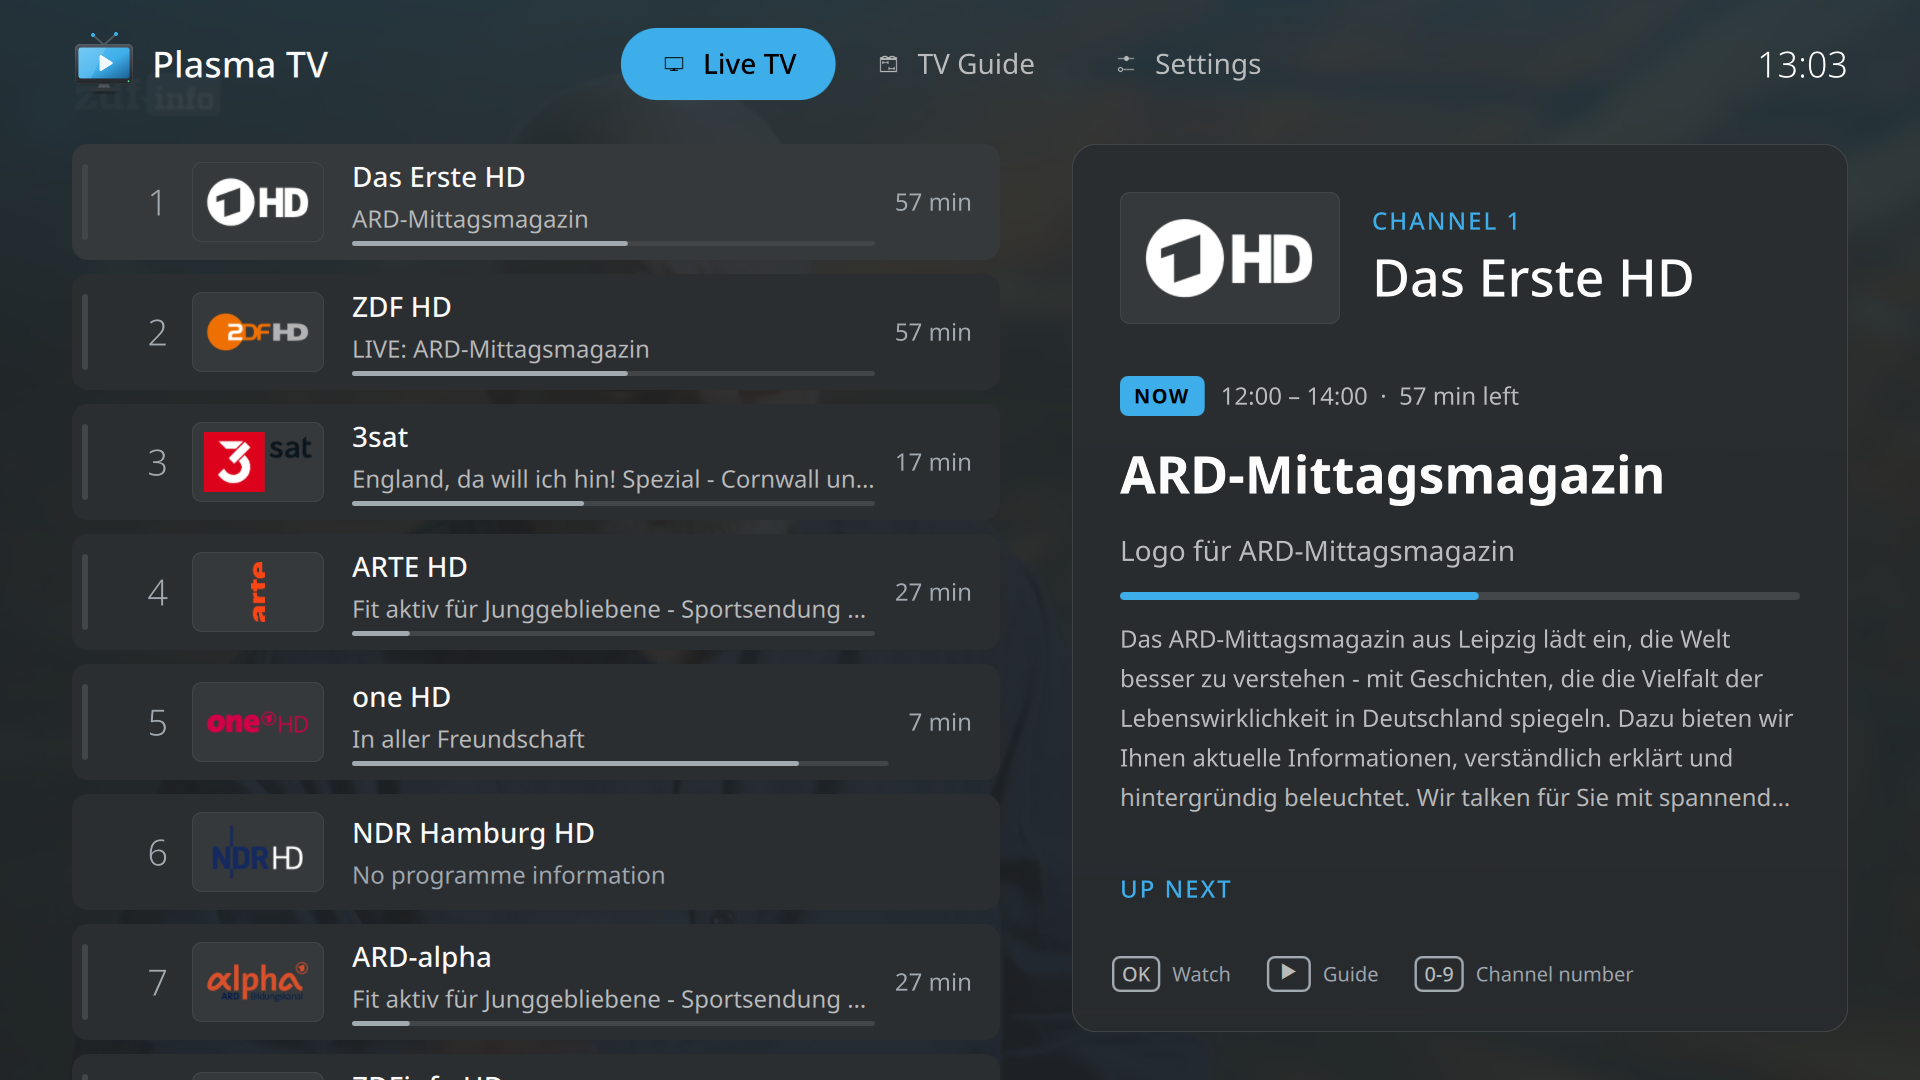
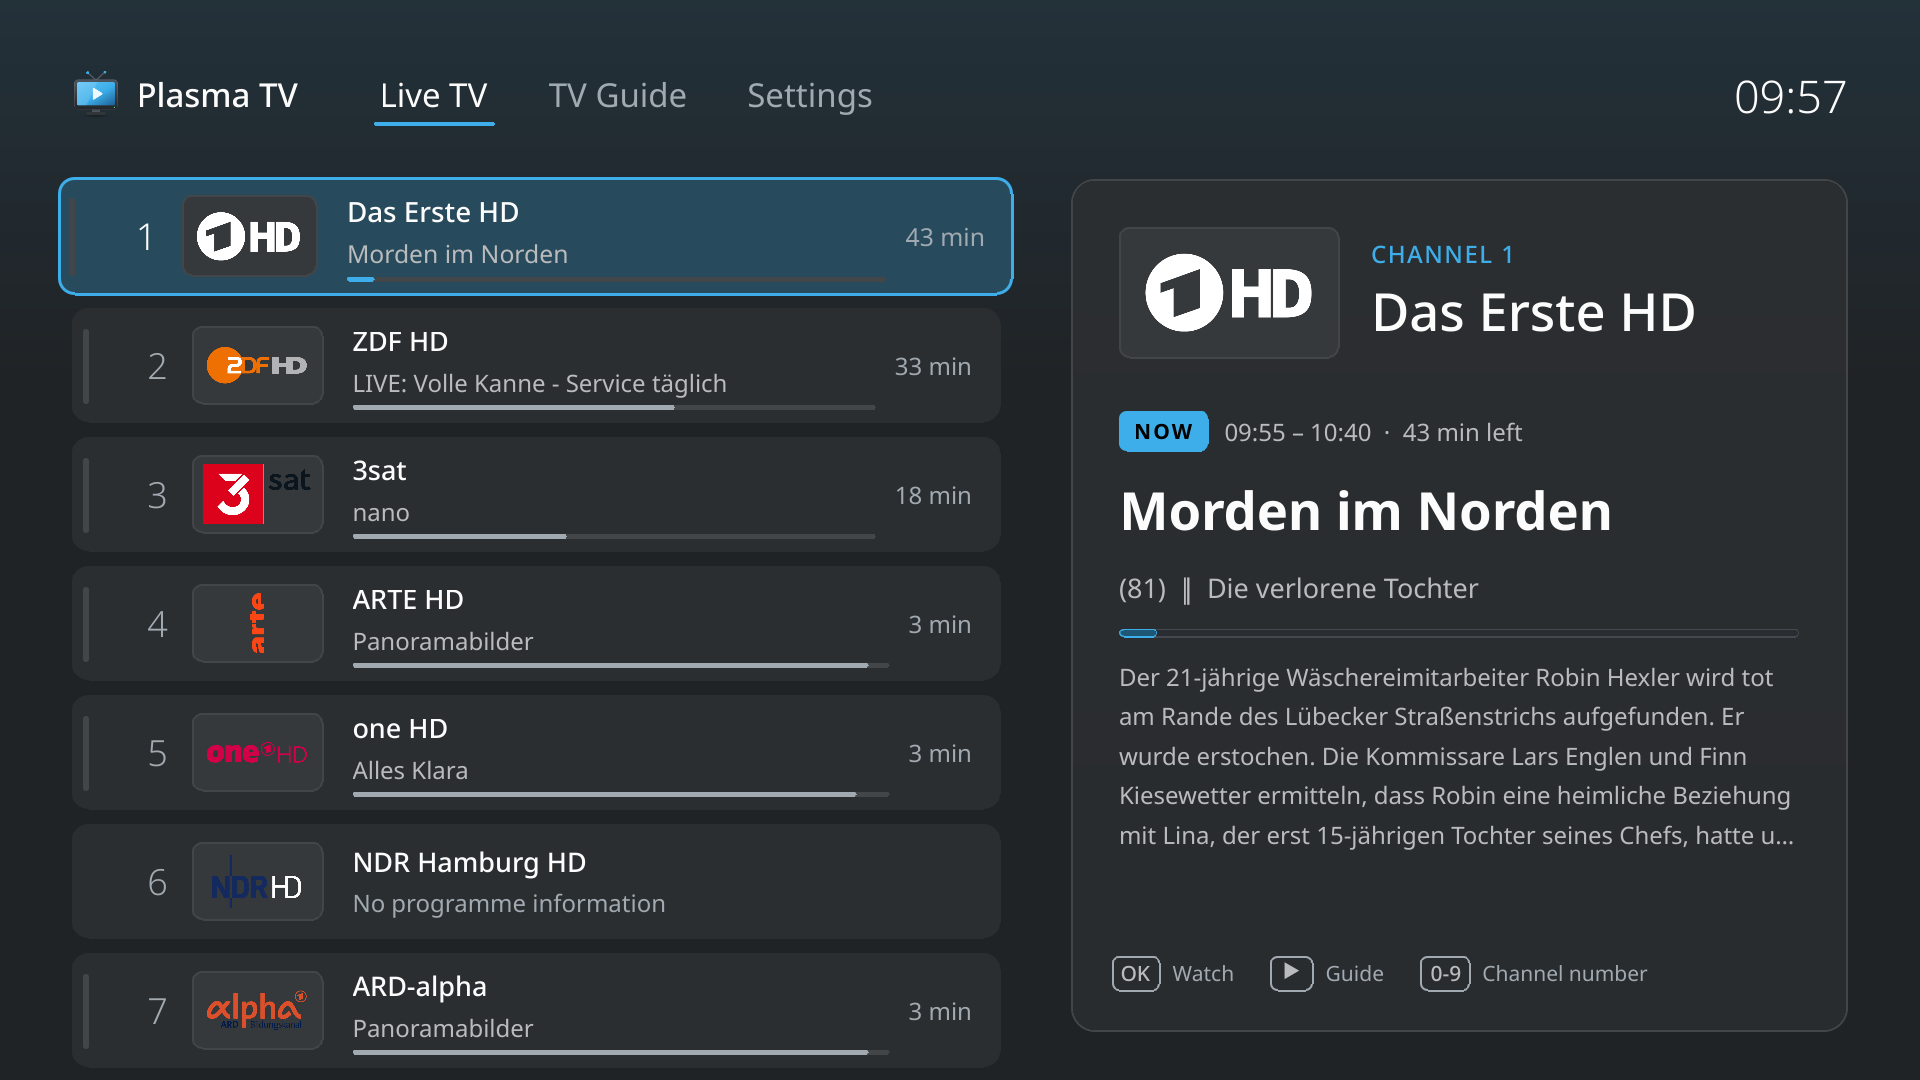
docs: Update the screenshots to the Bigscreen UI
The screenshots still showed the UI from before Bigscreen UI. The
watching screenshot shows a drawn landscape instead of a TV broadcast,
so it shows no people and no broadcaster's content. The captions
describe the current keys and settings.

diff --git a/README.md b/README.md
@@ -22,15 +22,14 @@ that is playing shows through behind the menus.
 ![Live TV page with the channel list and programme details](img/live-tv.png)
 
 **Watching**: the info bar shows the channel, the current programme with its
-progress and what's on next. Up/down zaps, OK opens the channel list.
+progress and what's on next. Up/down zaps, left opens the channel list and OK
+pauses.
 
 ![Watch mode with the info bar over live video](img/watch.png)
 
-**Settings**: server address, credentials (the password is stored in the
-wallet), streaming profile, days of guide data and color scheme, next to the
-connection status.
-
-![Settings page with server, playback and appearance options](img/settings.png)
+**Settings**: the source (TVHeadend or M3U + XMLTV), server address,
+credentials (the password is stored in the wallet), playback options, days of
+guide data and color scheme, next to the connection status.
 
 ## Build
 
